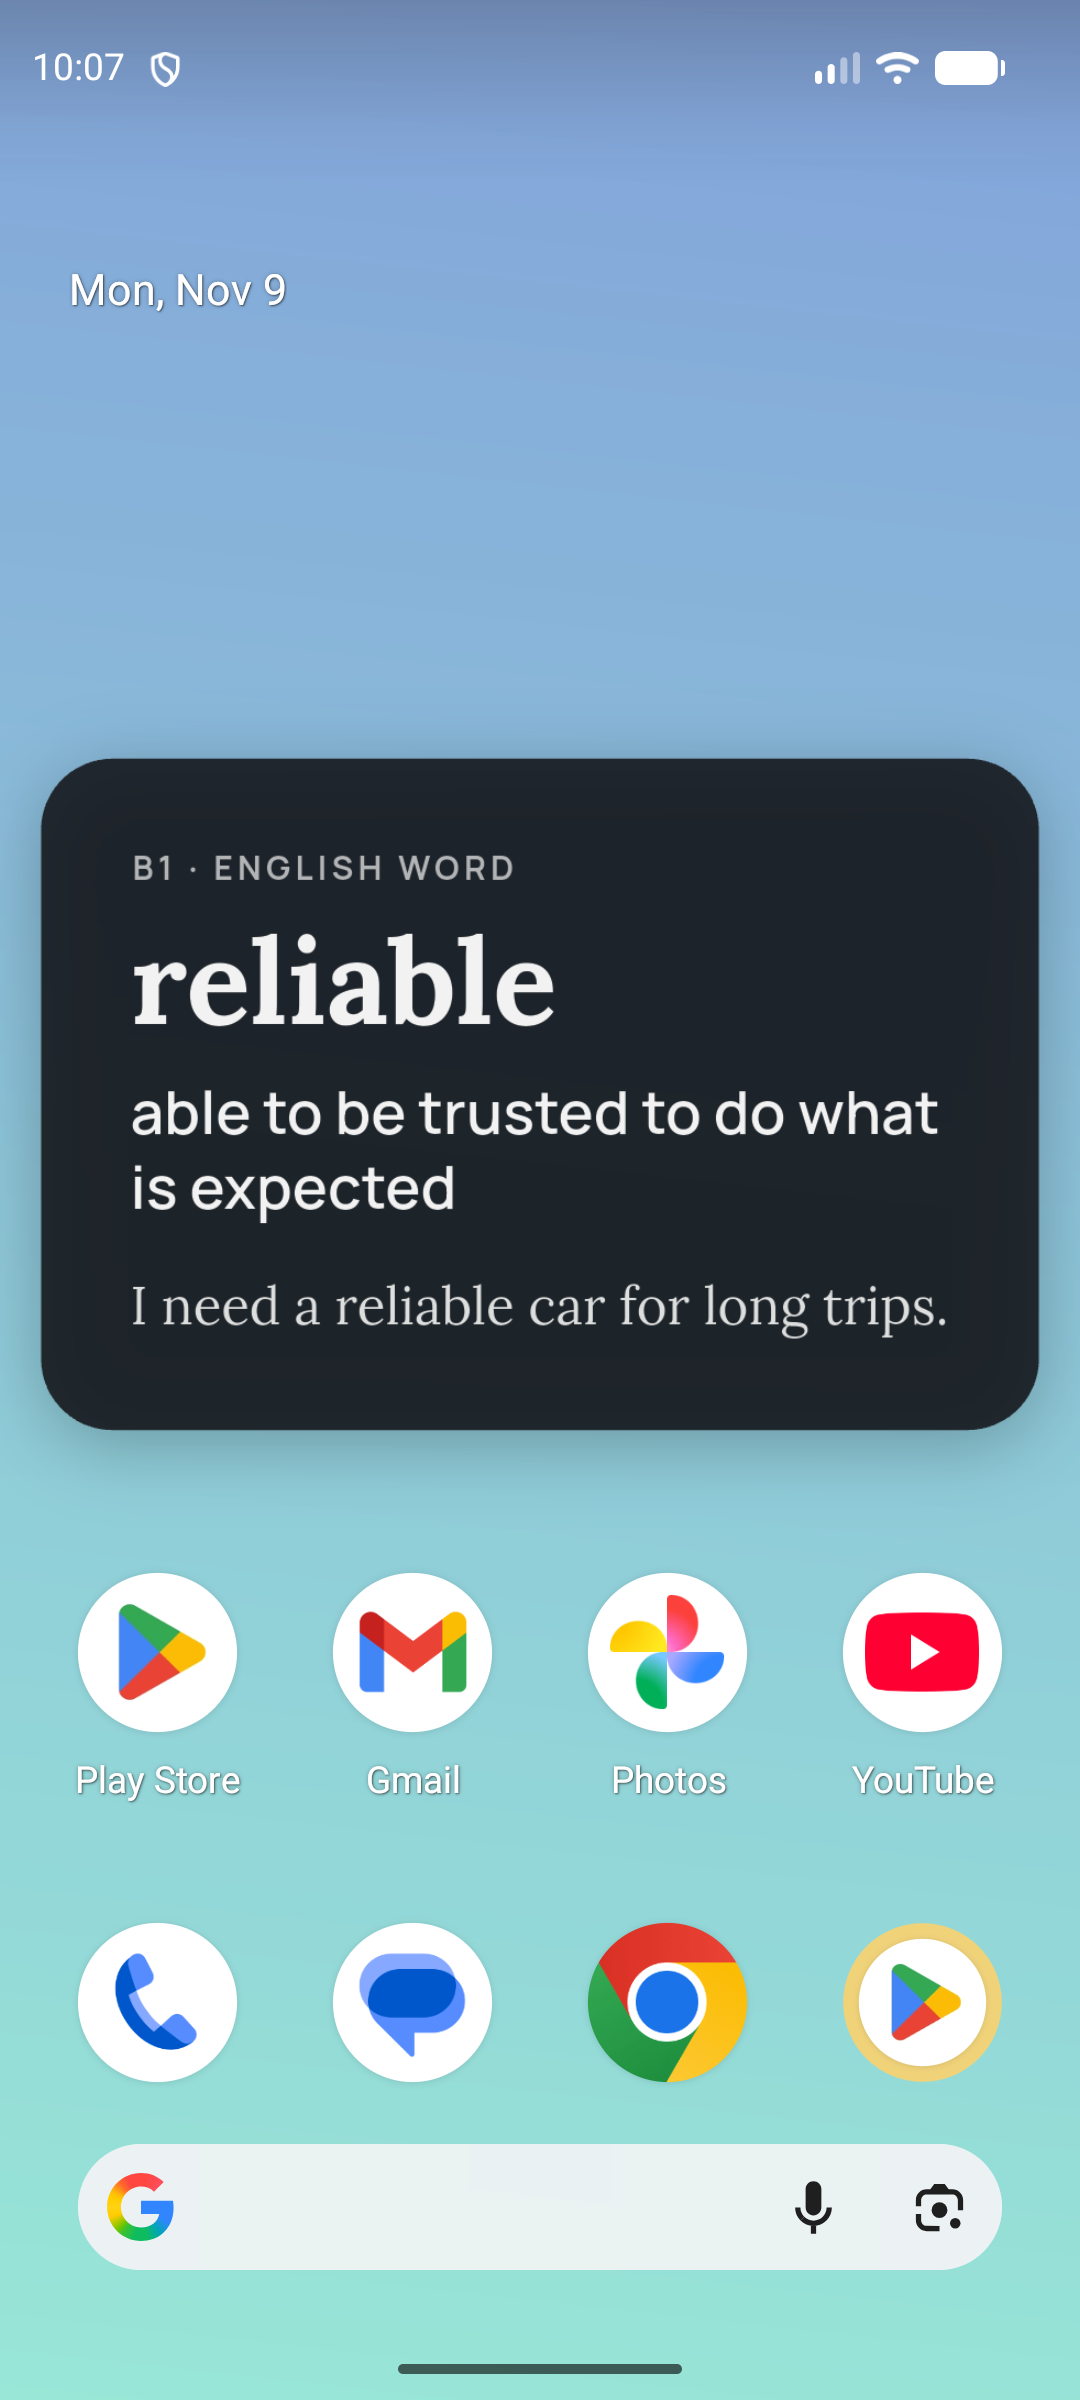
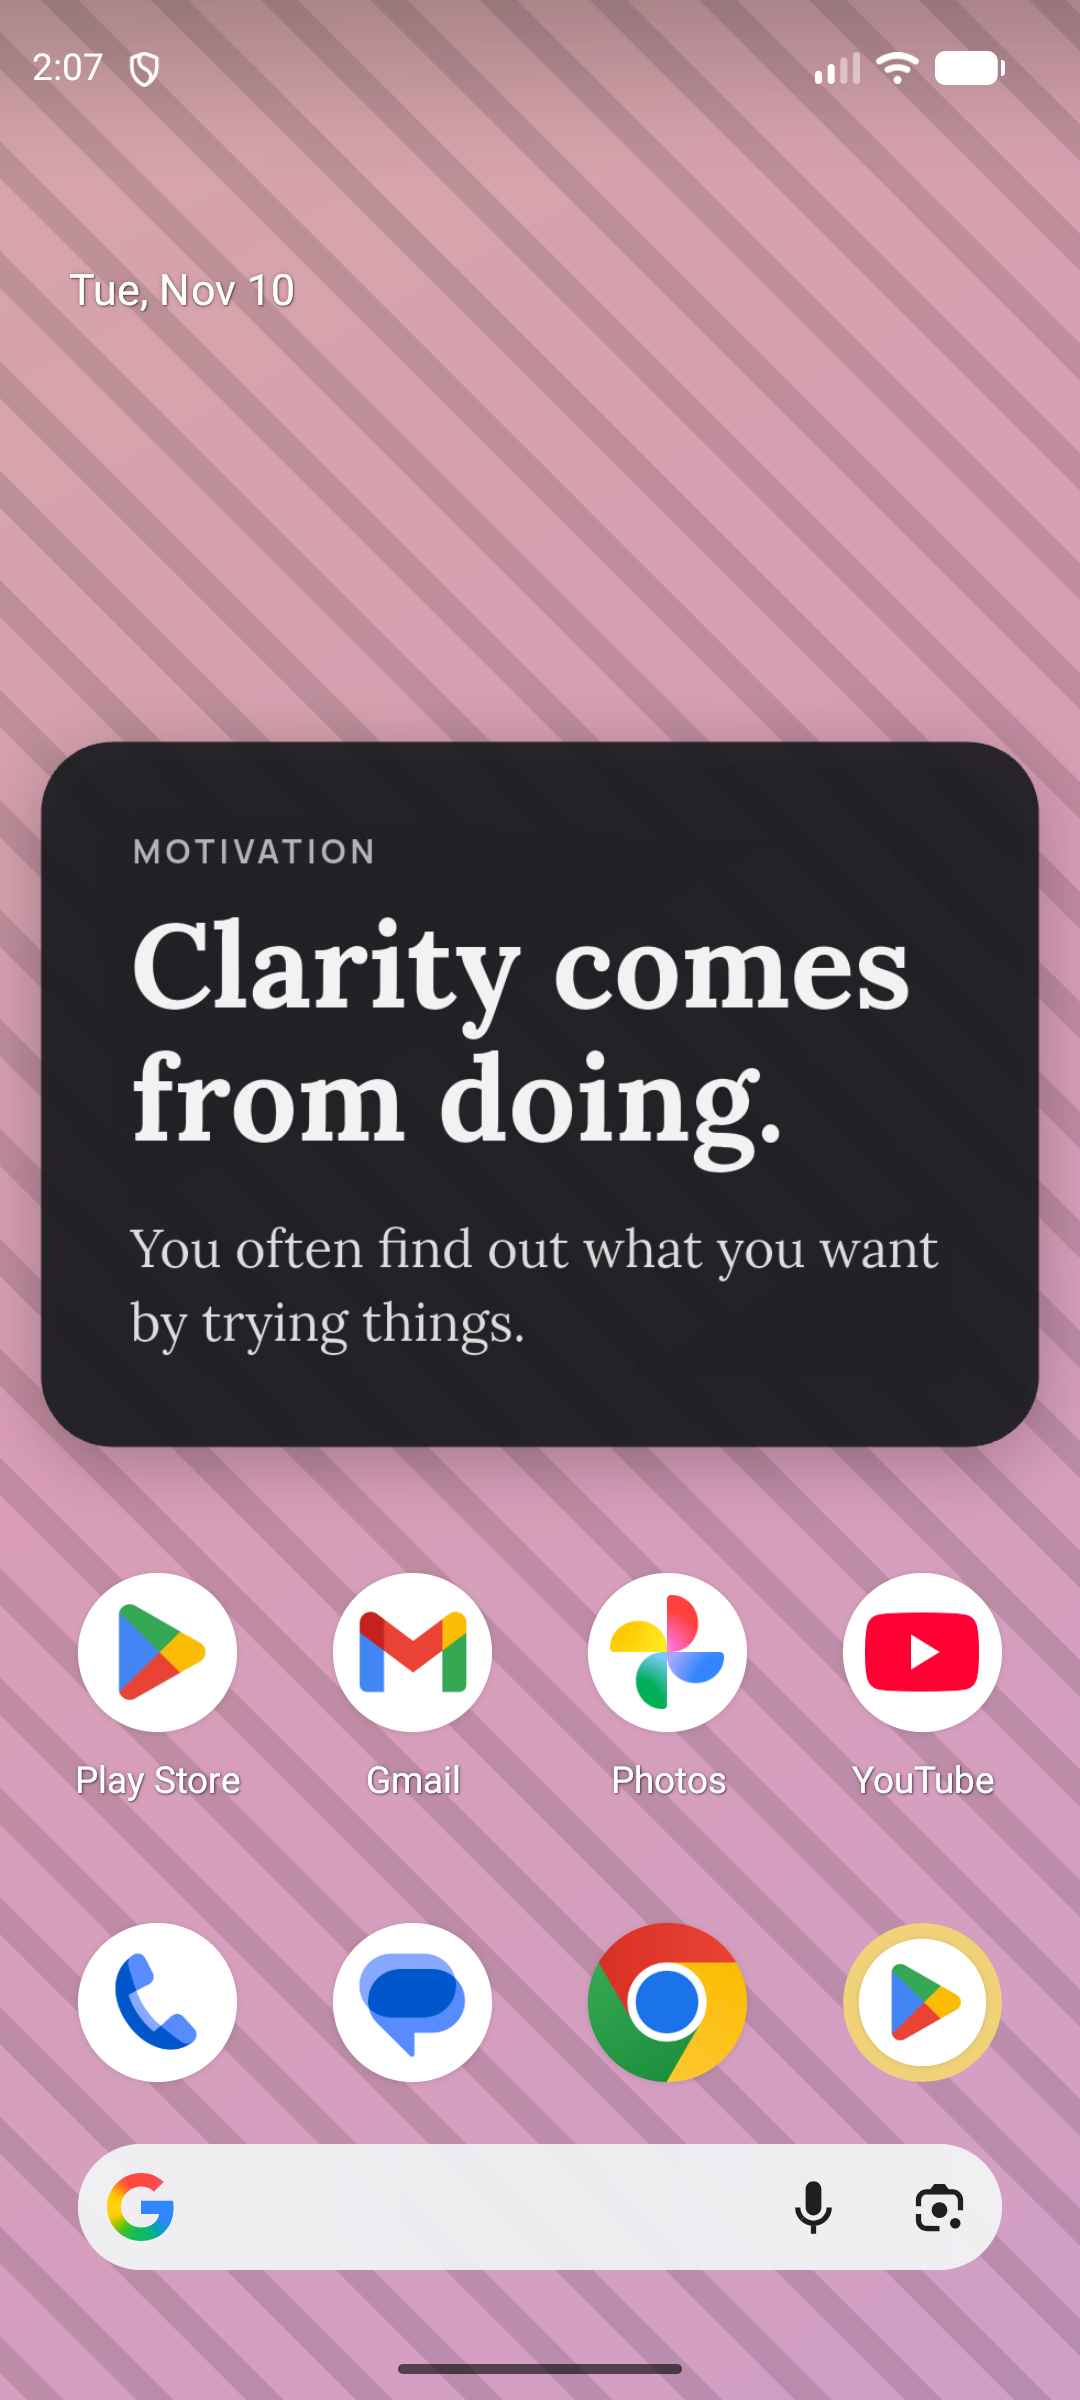
Match style previews to the badge; test the background job app-closed
- Style previews showed a fixed motivation line under the badge of the
  user's first interest ("ENGLISH WORD" over a quote). They now show a
  real item from that category (at the chosen English level), with a
  regression test.
- Debug: "Run the background task in 1 minute" enqueues a delayed
  one-off job, so the job can be tested with the app closed.
- guides.tr.md 3b: force-stop deletes the app's scheduled jobs, and
  WorkManager does not run a periodic job early even when forced (the
  Android 14+ job namespace needs -n). Replaced with the steps verified
  on the Pixel 7 API 37 emulator. Added how to check that a screen lock
  is set, and what mWhich means.
- Home screenshot refreshed (home-only target).

Verified on the emulator: clean onboarding without crashes; lock-only
and home-only each change just their own screen (dumpsys wallpaper);
the delayed job ran in a new process and changed the wallpaper.

diff --git a/lib/ui/widgets/template_preview.dart b/lib/ui/widgets/template_preview.dart
@@ -1,7 +1,11 @@
 import 'dart:ui' as ui;
 
 import 'package:flutter/material.dart';
+import 'package:flutter_riverpod/flutter_riverpod.dart';
 
+import '../../app/daily_wallpaper_service.dart' show categoryLabel;
+import '../../app/providers.dart';
+import '../../data/content_models.dart';
 import '../../domain/user_settings.dart';
 import '../../l10n/gen/app_localizations.dart';
 import '../../rendering/background.dart';
@@ -10,8 +14,43 @@ import '../../rendering/wallpaper_content.dart';
 import '../../rendering/wallpaper_renderer.dart';
 import '../labels.dart';
 
+/// What the style previews show: a real item from the user's first
+/// interest (at their English level for words), so the badge and the text
+/// always match. Until the content has loaded, a motivation line with the
+/// motivation badge.
+WallpaperContent previewSample({
+  required ContentLibrary? library,
+  required UserSettings settings,
+  required String language,
+  required AppLocalizations l10n,
+}) {
+  final categoryId = settings.categoryIds.firstOrNull;
+  final items = categoryId == null || library == null
+      ? const <ContentItem>[]
+      : library.itemsOf(categoryId);
+  if (categoryId != null && items.isNotEmpty) {
+    final item = items.firstWhere(
+      (i) => i is! WordItem || i.level == settings.englishLevel,
+      orElse: () => items.first,
+    );
+    return WallpaperContent.fromItem(
+      item,
+      language: language,
+      categoryLabel: categoryLabel(l10n, categoryId),
+    );
+  }
+  return WallpaperContent(
+    language: language,
+    badge: categoryLabel(l10n, 'motivation'),
+    title: language == 'tr' ? 'Küçük adımlar birikir.' : 'Small steps add up.',
+    body: language == 'tr'
+        ? 'Günde on dakika, bir yılda 60 saatten fazla eder.'
+        : 'Ten minutes a day is more than 60 hours a year.',
+  );
+}
+
 /// Three small live renders, one per template, to choose from.
-class TemplatePicker extends StatelessWidget {
+class TemplatePicker extends ConsumerWidget {
   const TemplatePicker({
     super.key,
     required this.selected,
@@ -24,17 +63,15 @@ class TemplatePicker extends StatelessWidget {
   final ValueChanged<String> onSelected;
 
   @override
-  Widget build(BuildContext context) {
+  Widget build(BuildContext context, WidgetRef ref) {
     final l10n = AppLocalizations.of(context);
     final scheme = Theme.of(context).colorScheme;
     final lang = Localizations.localeOf(context).languageCode;
-    final sample = WallpaperContent(
+    final sample = previewSample(
+      library: ref.watch(contentLibraryProvider).value,
+      settings: settings,
       language: lang,
-      badge: l10n.category(settings.categoryIds.firstOrNull ?? 'motivation'),
-      title: lang == 'tr' ? 'Küçük adımlar birikir.' : 'Small steps add up.',
-      body: lang == 'tr'
-          ? 'Günde on dakika, bir yılda 60 saatten fazla eder.'
-          : 'Ten minutes a day is more than 60 hours a year.',
+      l10n: l10n,
     );
     return Wrap(
       spacing: 12,

diff --git a/test/ui/template_preview_test.dart b/test/ui/template_preview_test.dart
@@ -1,0 +1,61 @@
+import 'package:dailywall/data/content_models.dart';
+import 'package:dailywall/data/content_repository.dart';
+import 'package:dailywall/domain/user_settings.dart';
+import 'package:dailywall/l10n/gen/app_localizations.dart';
+import 'package:dailywall/ui/widgets/template_preview.dart';
+import 'package:flutter/material.dart';
+import 'package:flutter/services.dart';
+import 'package:flutter_test/flutter_test.dart';
+
+void main() {
+  TestWidgetsFlutterBinding.ensureInitialized();
+  final en = lookupAppLocalizations(const Locale('en'));
+  late ContentLibrary library;
+
+  setUpAll(() async {
+    library = await ContentRepository(
+      bundle: rootBundle,
+      languages: const ['en', 'tr'],
+    ).load();
+  });
+
+  // Regression: the previews said "ENGLISH WORD" above a motivation line.
+  test('the preview shows an item of the badge category', () {
+    for (final c in ContentCatalog.categories) {
+      final sample = previewSample(
+        library: library,
+        settings: UserSettings(categoryIds: [c.id], englishLevel: CefrLevel.b2),
+        language: 'en',
+        l10n: en,
+      );
+      final item = library
+          .itemsOf(c.id)
+          .firstWhere(
+            (i) =>
+                sample.title ==
+                (i is WordItem ? i.word : (i as TextItem).text.resolve('en')),
+          );
+      expect(sample.badge, contains(en.categoryLabelFor(c.id)), reason: c.id);
+      if (item is WordItem) expect(item.level, CefrLevel.b2);
+    }
+  });
+
+  test('before the content loads the sample is a motivation line', () {
+    final sample = previewSample(
+      library: null,
+      settings: const UserSettings(categoryIds: ['english_words']),
+      language: 'en',
+      l10n: en,
+    );
+    expect(sample.badge, 'Motivation');
+  });
+}
+
+extension on AppLocalizations {
+  String categoryLabelFor(String id) => switch (id) {
+    'english_words' => categoryEnglishWords,
+    'software_tips' => categorySoftwareTips,
+    'motivation' => categoryMotivation,
+    _ => categoryGeneralKnowledge,
+  };
+}

diff --git a/lib/platform/background_tasks.dart b/lib/platform/background_tasks.dart
@@ -34,12 +34,17 @@ abstract final class BackgroundTasks {
 
   static Future<void> cancel() => Workmanager().cancelByUniqueName(uniqueName);
 
-  /// Debug: run the job once, now (the same code path as the daily run).
-  static Future<void> runOnceNow() => Workmanager().registerOneOffTask(
-    'dailywall.debug.${DateTime.now().millisecondsSinceEpoch}',
-    debugTaskName,
-    existingWorkPolicy: ExistingWorkPolicy.append,
-  );
+  /// Debug: run the job once (the same code path as the daily run), now
+  /// or after [delay]. A delay leaves time to close the app, so the job
+  /// runs in a fresh process; WorkManager will not run the periodic job
+  /// early, even when it is forced with `adb shell cmd jobscheduler run`.
+  static Future<void> runOnceNow({Duration delay = Duration.zero}) =>
+      Workmanager().registerOneOffTask(
+        'dailywall.debug.${DateTime.now().millisecondsSinceEpoch}',
+        debugTaskName,
+        existingWorkPolicy: ExistingWorkPolicy.append,
+        initialDelay: delay,
+      );
 }
 
 /// Entry point of the background engine. Must be a top-level function

diff --git a/lib/ui/settings/settings_screen.dart b/lib/ui/settings/settings_screen.dart
@@ -285,6 +285,17 @@ class _DebugSectionState extends ConsumerState<_DebugSection> {
           },
         ),
         ListTile(
+          leading: const Icon(Icons.timer_outlined),
+          title: const Text('Run the background task in 1 minute'),
+          subtitle: const Text(
+            'Close the app now to test the job with the app closed',
+          ),
+          onTap: () async {
+            await BackgroundTasks.runOnceNow(delay: const Duration(minutes: 1));
+            _snack('Enqueued for 1 minute from now. Close the app.');
+          },
+        ),
+        ListTile(
           leading: const Icon(Icons.fast_forward_rounded),
           title: Text('Pretend it is tomorrow (offset: $_offset)'),
           onTap: () => _shiftDays(_offset + 1),

diff --git a/docs/guides.tr.md b/docs/guides.tr.md
@@ -40,7 +40,16 @@ seviye → nereye → stil → **Duvar kâğıdını ayarla**.
    kilit ekranı bir önceki adımdaki gibi kalmalı.
 5. *İkisi de* → **Şimdi uygula**: iki ekran aynı görüntüyü göstermeli.
 
-Komut satırından da bakılabilir (iki ayrı duvar kâğıdı kimliği görünür):
+Kilit ekranı yalnızca bir ekran kilidi tanımlıysa görünür. Ayarın gerçekten açık
+olduğunu şöyle kontrol edin; `true` çıkarsa kilit kapalıdır (Ayarlar → Güvenlik →
+Ekran kilidi → Kaydırma):
+
+```bash
+adb shell cmd lock_settings get-disabled
+```
+
+Komut satırından da bakılabilir (iki ayrı duvar kâğıdı kimliği görünür; `mWhich=1`
+ana ekran, `2` kilit ekranı, `3` ikisi):
 
 ```bash
 adb shell dumpsys wallpaper | grep -iE "mWhich|mWallpaperId|FLAG_LOCK|FLAG_SYSTEM"
@@ -63,23 +72,46 @@ bölümü:
 - *Pretend it is tomorrow*: günü bir ileri alır; yeni içerik seçilir ve uygulanır.
   Bunu kullandıktan sonra *Reset day offset* ile sıfırlayın.
 
-**b) Gerçek periyodik işi adb ile zorla çalıştırmak** (uygulama kapalıyken, ayrı arka
-plan motorunun da çalıştığını görmek için):
+**b) Uygulama kapalıyken arka plan işi** (ayrı süreçte, ayrı Flutter motoruyla
+çalıştığını görmek için; Pixel 7 API 37 emülatöründe denendi):
+
+1. Uygulamada Ayarlar → Developer → *Run the background task in 1 minute*. Tek
+   seferlik iş 1 dakika sonrasına kuyruğa girer.
+2. Uygulamayı kapatın. `force-stop` **kullanmayın**: o, uygulamanın bütün zamanlanmış
+   işlerini de siler.
+
+   ```bash
+   adb shell input keyevent KEYCODE_HOME
+   adb shell am kill com.yusufaycicek.dailywall
+   adb shell pidof com.yusufaycicek.dailywall    # boş çıkmalı
+   ```
+
+3. Bir dakika sonra:
+
+   ```bash
+   adb logcat -s flutter
+   # dailywall background task "applyDailyWallpaperNow": ApplyResult(...)
+   adb shell pidof com.yusufaycicek.dailywall    # yeni bir süreç kimliği
+   adb shell dumpsys wallpaper | grep "id="       # duvar kâğıdı değiştiyse id artar
+   ```
+
+   Bugünün duvar kâğıdı zaten konmuşsa sonuç `alreadyApplied` olur ve duvar kâğıdı
+   değişmez. Değişimi görmek için önce *Pretend it is tomorrow* kullanın ya da
+   aşağıdaki (d) yolunu izleyin.
+
+Periyodik işi (`dailywall.daily`) adb ile **öne alamazsınız**. İşin kimliğini görmek
+için:
 
 ```bash
-adb shell am force-stop com.yusufaycicek.dailywall
-adb shell dumpsys jobscheduler com.yusufaycicek.dailywall | grep -E "JOB #|SystemJobService"
+adb shell dumpsys jobscheduler | grep "JOB androidx.work.systemjobscheduler" | grep dailywall
+# JOB androidx.work.systemjobscheduler:u0a235/3: ... -> kimlik 3
 ```
 
-Çıktıdaki `JOB #u0a190/12: ...` satırındaki `/` sonrası sayı iş kimliğidir (ör. `12`):
-
-```bash
-adb shell cmd jobscheduler run -f com.yusufaycicek.dailywall 12
-adb logcat -s flutter WM-WorkerWrapper
-```
-
-Logcat'te `dailywall: background ...` satırı görünür. Uygulamayı açınca Ayarlar →
-Developer → *Background log* da aynı çalışmayı gösterir.
+Android 14+'ta WorkManager işleri bir ad alanında tuttuğu için zorlama komutu `-n`
+ister: `adb shell cmd jobscheduler run -f -n androidx.work.systemjobscheduler
+com.yusufaycicek.dailywall 3`. Ama WorkManager periyodik işi süresi dolmadan
+çalıştırmaz; logcat'te `WM-WorkerWrapper: ... is ENQUEUED; not doing any work`
+yazar. Bu yüzden (b)'deki tek seferlik iş kullanılır.
 
 **c) WorkManager'ın kendi tanılama çıktısı** (debug derlemesi):
 
@@ -89,8 +121,8 @@ adb logcat -s WM-DiagnosticsWrkr
 ```
 
 **d) Ertesi günü saatle denemek:** emülatörün Ayarlar → Sistem → Tarih ve saat →
-otomatik saati kapatıp tarihi bir gün ileri alın, sonra (b)'deki komutu çalıştırın.
-Bittiğinde otomatik saati geri açın.
+otomatik saati kapatıp tarihi bir gün ileri alın, sonra (b)'deki adımları izleyin
+(bu yol ayrıca denenmedi). Bittiğinde otomatik saati geri açın.
 
 ## 4. Release derlemesi, imzalı AAB ve anahtarın güvenliği
 
